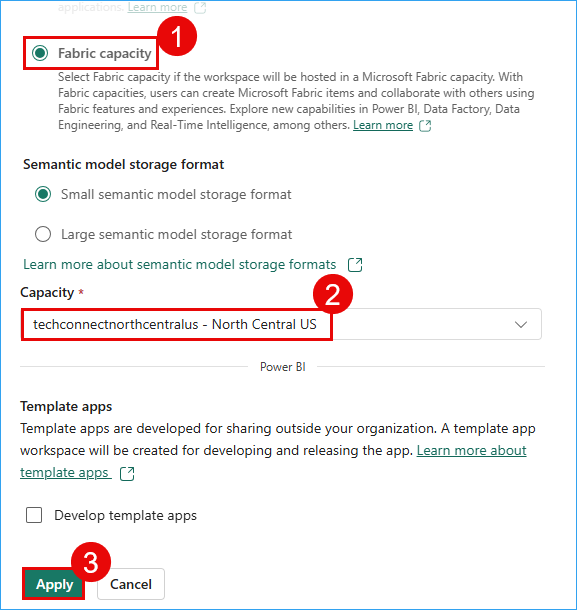
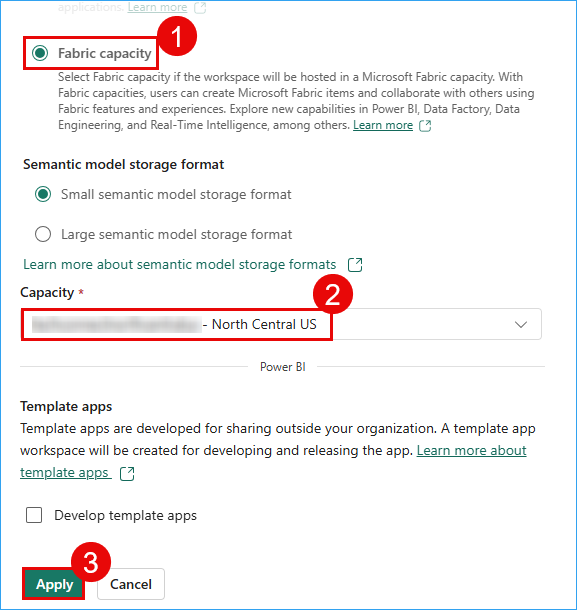
updating screenshots and steps

Changed region(s): [[0.0312, 0.4984, 0.3432, 0.5607]]

diff --git a/exercise1.md b/exercise1.md
@@ -46,7 +46,7 @@ In this exercise, you will act as the Data Engineer, Eva, to transfer Contoso's 
 
    ![works-apply.png](media/labMedia/workspace01.png)
 
-5. Ensure **Fabric capacity** is enabled, verify that **techconnectnorthcentralus - North Central US** is selected under **Capacity**, and then click **Apply**.
+5. Ensure **Fabric capacity** is enabled, verify that **fabric...- North Central US** is selected under **Capacity**, and then click **Apply**.
 
    ![works-apply.png](media/labMedia/workspace02.png)
 
@@ -58,25 +58,6 @@ In this exercise, you will act as the Data Engineer, Eva, to transfer Contoso's 
 
    >**Note:** Wait for the Power BI Workspace to load.
 
-<!-- >**Note**:  If you see the pop message **Upgrade to Power BI Pro License** perform the following steps. Otherwise, skip to the next exercise.
-
-10. *Click on the **Try free** button.*
-   ![task-1.1-new2.png](media/labMedia/task-1.1-new2.png)
-
-11. *Click on the **Got it** button to continue.*
-   ![task-1.1-new3.png](media/labMedia/task-1.1-new3.png) -->
-
-<!-- 12. Click on **Workspaces** to verify if the workspace with the given name was created, if not perform the steps above again.
-
->**NOTE:** If the workspace you created is not visible, perform **step 8** again. -->
-<!-- 
-![task-1.1-new4.png](media/labMedia/task-1.1-new4.png) -->
-
-
-   
-<!-- >**Note:** Click on the collapse icon, as shown in the screenshot below, for better visibility.
-
-![collapsedicon.png](media/labMedia/collapsedicon.png) -->
 
 ### Create/Build a Lakehouse
 
@@ -186,19 +167,15 @@ Now, let’s see how Data Engineer, Eva, Analyzed data by leveraging Data Wrangl
 
    ![task-wb8S.png](media/labMedia/64.4.png)
 
-3. Click on the **+ Data Sources** button and then select **Lakehouses**.
+3. Click on the **+ Add data items** button and then select **Existing data sources**.
 
-   ![task-wb8S.png](media/labMedia/64.5.png)
+   ![task-wb8S.png](media/labMedia/additem041.png)
 
-4. Select **Existing Lakehouse with Schema** and then click on the **Add** button.
+4. Select the **lakehouse** and click on **Connect** button.
 
-    ![task-wb8S.png](media/labMedia/64.6.1.png)
+   ![task-wb8S.png](media/labMedia/lakehouseconnect.png)
 
-5. Select the **lakehouse** and then click on **Add**
-
-   ![task-wb8S.png](media/labMedia/64.7.png)
-
-6.  Once the notebook is created, **hover below** the existing cell and click on **+Code** to create a new cell in the notebook. Paste the following **code** in the cell and **run** the cell.
+5.  Once the notebook is created, **hover below** the existing cell and click on **+Code** to create a new cell in the notebook. Paste the following **code** in the cell and **run** the cell.
 
     ![task-wb8S.png](media/f52.png)
 
@@ -221,7 +198,7 @@ Now, let’s see how Data Engineer, Eva, Analyzed data by leveraging Data Wrangl
 
      ![task-wb8S.png](media/f53.png)
 
-7. In the notebook ribbon **Home** tab, use the **Data Wrangler** dropdown and select any one of the dataframe.
+6. In the notebook ribbon **Home** tab, use the **Data Wrangler** dropdown and select any one of the dataframe.
 
    ![task-wb8S.png](media/f38New.png)
 
@@ -229,15 +206,15 @@ Now, let’s see how Data Engineer, Eva, Analyzed data by leveraging Data Wrangl
 
    ![](media/labMedia/wrangler.png)
 
-8. When Data Wrangler loads, it displays a descriptive overview of the chosen DataFrame in the **Summary** panel. Note that the table have no missing values and duplicate rows, similarly you can view data frames for other csv.
+7. When Data Wrangler loads, it displays a descriptive overview of the chosen DataFrame in the **Summary** panel. Note that the table have no missing values and duplicate rows, similarly you can view data frames for other csv.
 
    ![task-wb8S.png](media/labMedia/f39.png)
 
-9. Click on the **Back** arrow to return to the notebook.
+8. Click on the **Back** arrow to return to the notebook.
 
    ![](media/f65.png)
 
-10. Since the data is already normalized, we will load it into Delta tables. Create a **new cell** and paste the following **code** in it and **run** the cell.
+9. Since the data is already normalized, we will load it into Delta tables. Create a **new cell** and paste the following **code** in it and **run** the cell.
 
       ```
       import os
@@ -256,25 +233,25 @@ Now, let’s see how Data Engineer, Eva, Analyzed data by leveraging Data Wrangl
 
     ![task-wb8S.png](media/labMedia/64.8.png)
 
-11. Once the execution is successful, **stop the Spark session**.
+10. Once the execution is successful, **stop the Spark session**.
 
-12. Click on **Lakehouse** in the left navigation pane.
+11. Click on **Lakehouse** in the left navigation pane.
 
     ![task-wb8S.png](media/labMedia/f64.png)
 
-13. Expand **tables**, expand **dbo**, click on the **three dots**, and then click on **Refresh**. 
+12. Expand **tables**, expand **dbo**, click on the **three dots**, and then click on **Refresh**. 
 
      ![task-wb8S.png](media/labMedia/64.10.1.png)
 
-14. View the successfully **loaded tables**.
+13. View the successfully **loaded tables**.
 
     ![task-wb8S.png](media/labMedia/f66.png)
 
-15. Click on **website_bounce_rate** delta table and view the website bounce rate data.
+14. Click on **website_bounce_rate** delta table and view the website bounce rate data.
 
      ![](media/labMedia/f67.png)
 
-16. You now have all the tables in **OneLake** for Contoso to leverage. Next, we proceed with data transformation using Dataflow Gen2 to transform the sales data ingested from Litware. 
+15. You now have all the tables in **OneLake** for Contoso to leverage. Next, we proceed with data transformation using Dataflow Gen2 to transform the sales data ingested from Litware. 
 
 
 
@@ -289,14 +266,9 @@ You will experience how easy it is to use Fast Copy to transform 100M rows of Li
 1. Click on **<inject key= "WorkspaceName" enableCopy="false"/>** and select **New item** then Click on **Dataflow Gen2**.
 
    ![task-1.3.1.png](media/labMedia/f9.png)
+ 
 
-    
-
-2. If prompted, uncheck **Enable Git integration, deployment pipelines and public API scenarios (preview)** box, click on **Create** or proceed to **step 3**.
-
-    ![task-1.3.1.png](media/labMedia/f41.png)    
-
-3. Click on the top part of the **Get data** icon (**not on the dropdown arrow at the bottom of the icon**).
+2. Click on the top part of the **Get data** icon (**not on the dropdown arrow at the bottom of the icon**).
 
       ![getdataSs.png](media/labMedia/getdataSs.png)
 
@@ -304,13 +276,13 @@ You will experience how easy it is to use Fast Copy to transform 100M rows of Li
    
     ![getdataSs.png](media/labMedia/getdatau.png)
 
-4. In the pop-up window, navigate to **OneLake Catalog**, select **Recommended**, and then choose **Lakehouse**.
+3. In the pop-up window, navigate to **OneLake Catalog**, and click on **Lakehouse**.
 
-   >Note: If the Lakehouse doesn't appear under **Recommended**, please wait for a while and then check again under both **Recommended** and **Recent**.
+   >Note: If the Lakehouse doesn't appear, please wait for a while and then check again under both **Recommended** and **Recent**.
 
      ![task-1.2.04.S1.png](media/labMedia/task1.png)
 
-5. If you see a screen similar to the following one, click on the **Next** button otherwise move to the next step.
+4. If you see a screen similar to the following one, click on the **Next** button otherwise move to the next step.
 
    ![task-1.2.05.1.png](media/labMedia/task-1.2.05.1.png)
 
@@ -361,23 +333,6 @@ You will experience how easy it is to use Fast Copy to transform 100M rows of Li
       >**Note:** Due to time constraints, we will not publish and run the Dataflow from the Pipeline.
 
       >**Note:** Expand the queries pane collapsed earlier.
-
-
-<!-- 
-13. Right click on the **Sales_data csv** under **Queries** and then select **Require fast copy**.
-
-
-   >**Note:** If the **popup** does not appear, skip Step 14continue with Step 1 
-
-   ![task_1.4.7.png](media/labMedia/task_1.4.7.png)
--->
-<!--
-14. Click on **Options**, scroll down to select **Scale** and tick **Allow use of fast copy connectors** checkbox then click on **OK**.
-
-      **Note:** If **Allow use of fast copy connectors** checkbox is already checked click on **OK**.
-
-      ![](media/56.png)
--->
 
 
 13. Click on **Add data destination**, select **Lakehouse**.
@@ -434,11 +389,7 @@ Now let's use Copilot in Data pipeline to leverage the data transformation activ
 
    ![task_1.4.12.png](media/labMedia/task_1.4.12.png)
 
-5. In the Copilot pane, click on the predefined option **Ingest data** and the following text will be populated in the prompt textbox.
-
-   ```
-   Get data using copy data activity
-   ```
+5. In the Copilot pane, click on the predefined option **Ingest data** and the following text will be populated in the prompt textbox: `Get data using copy data activity`.
 
 6. Click on **Send** icon.
 
